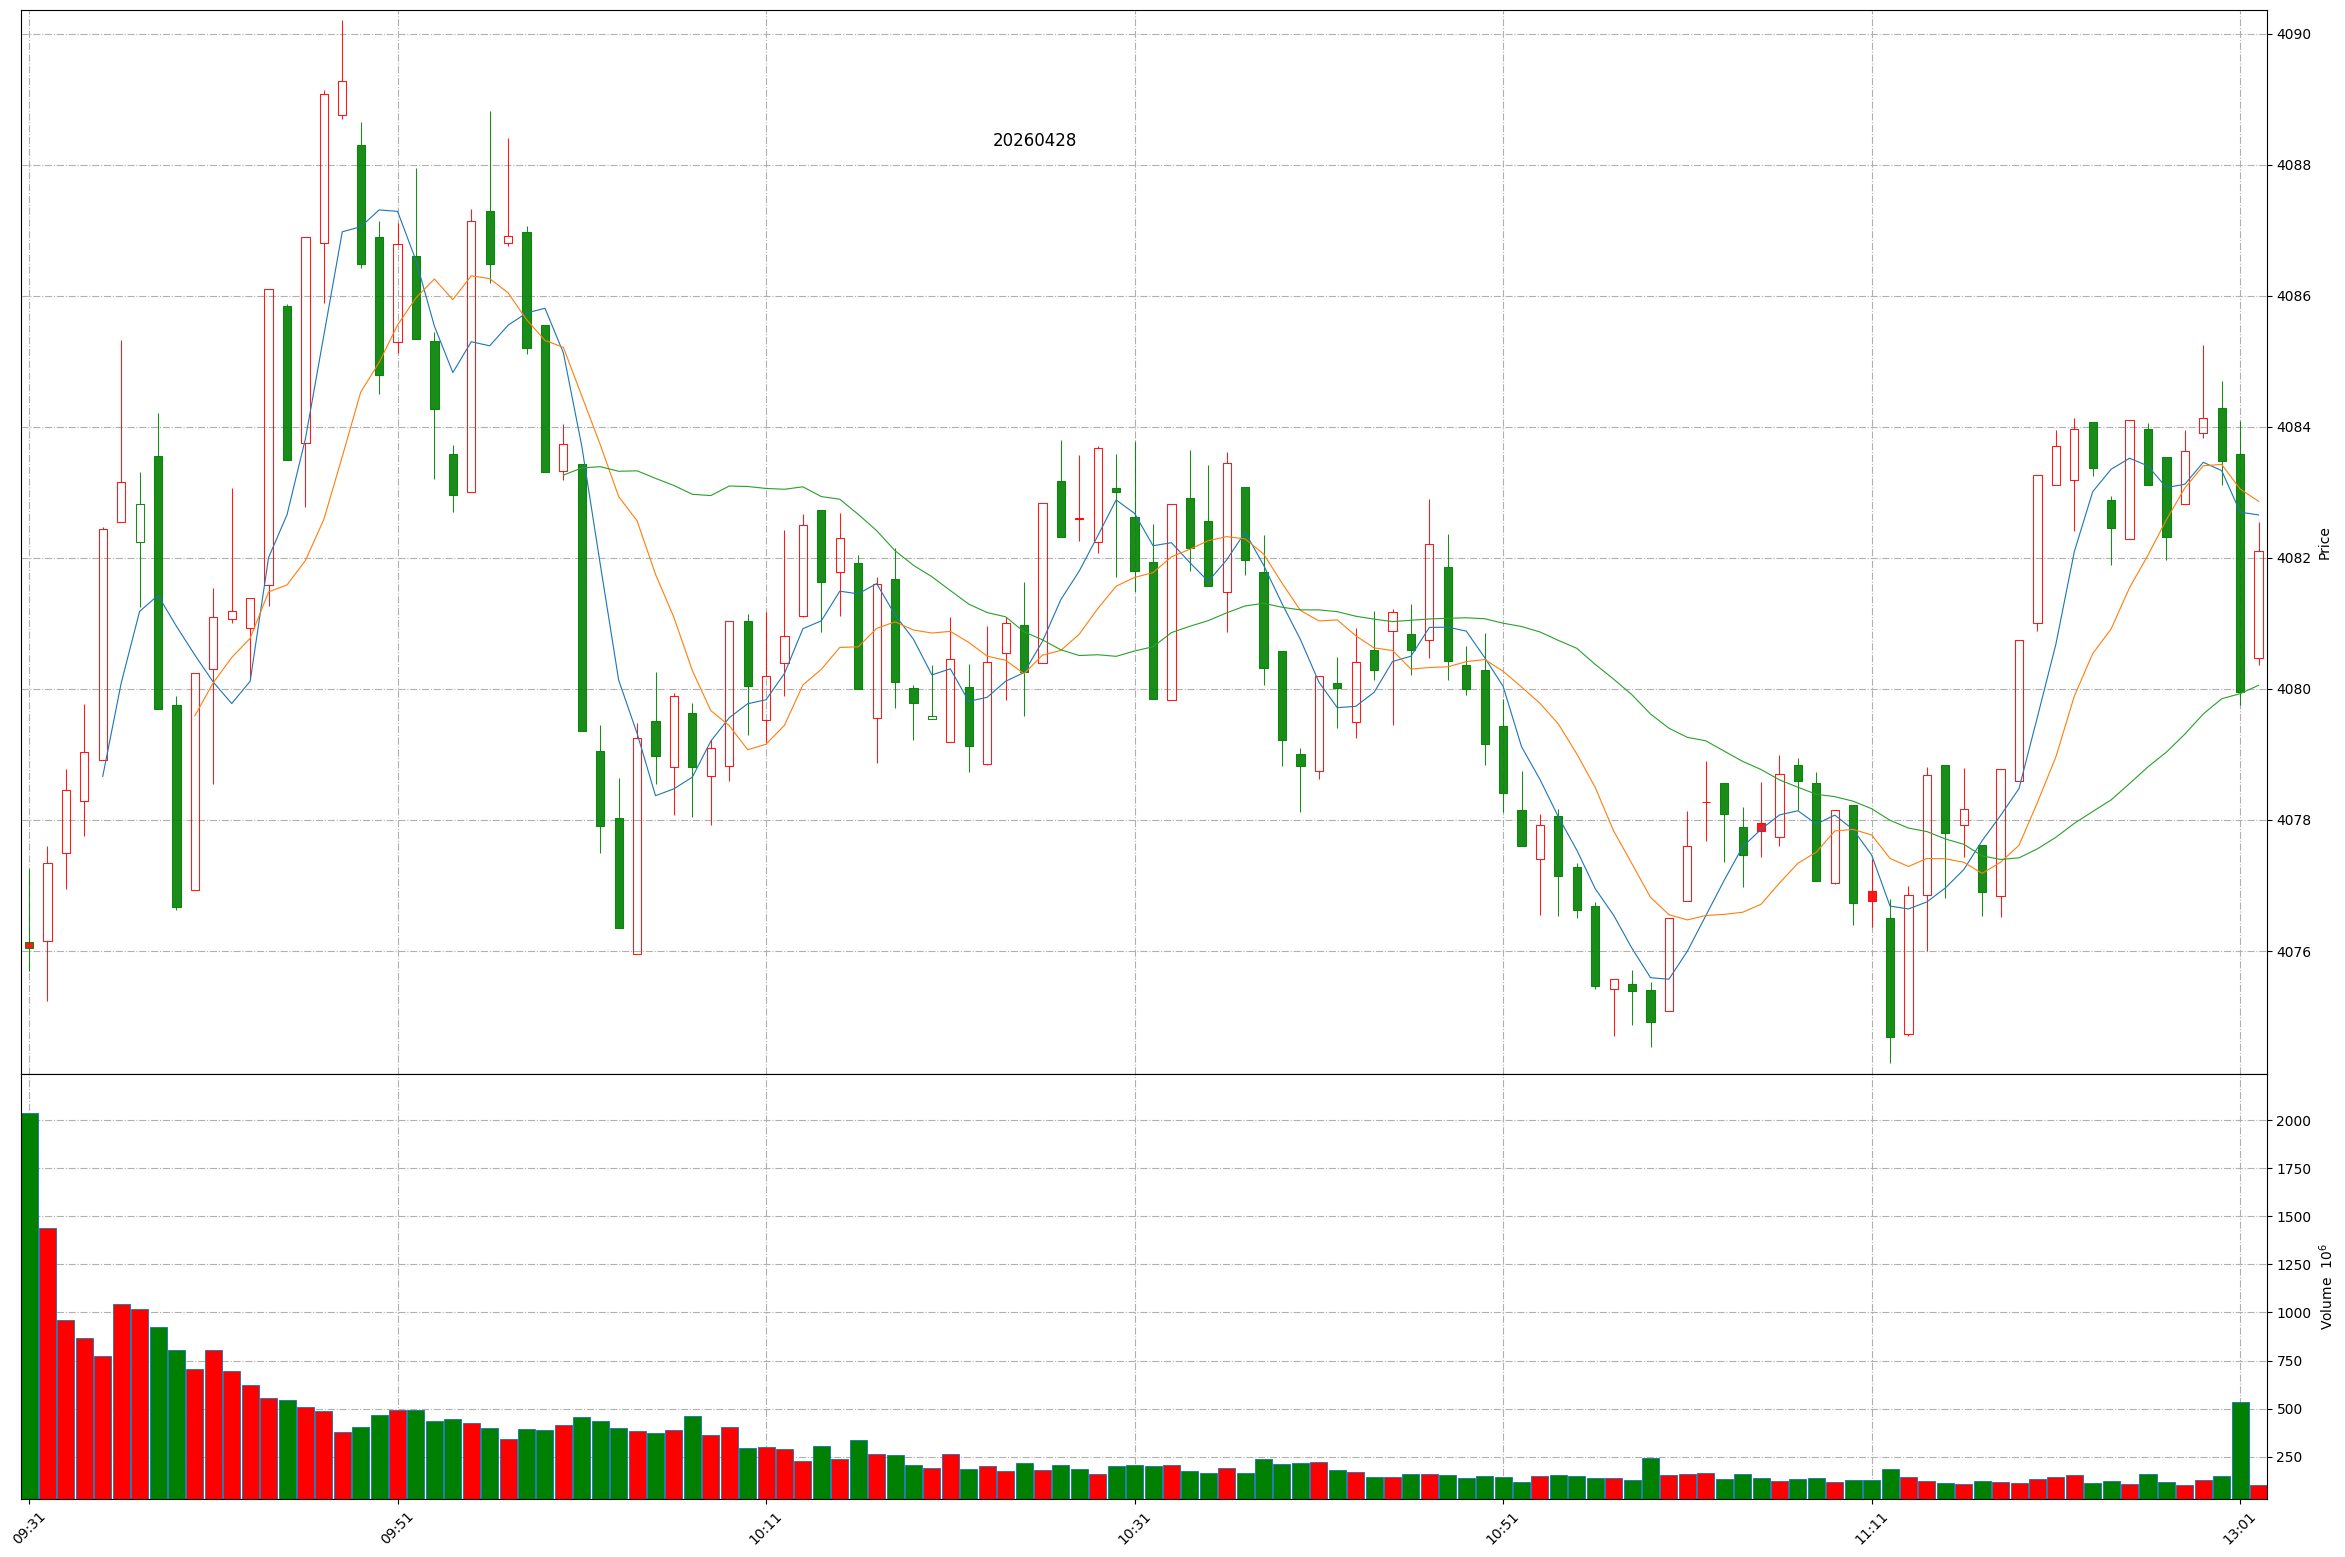
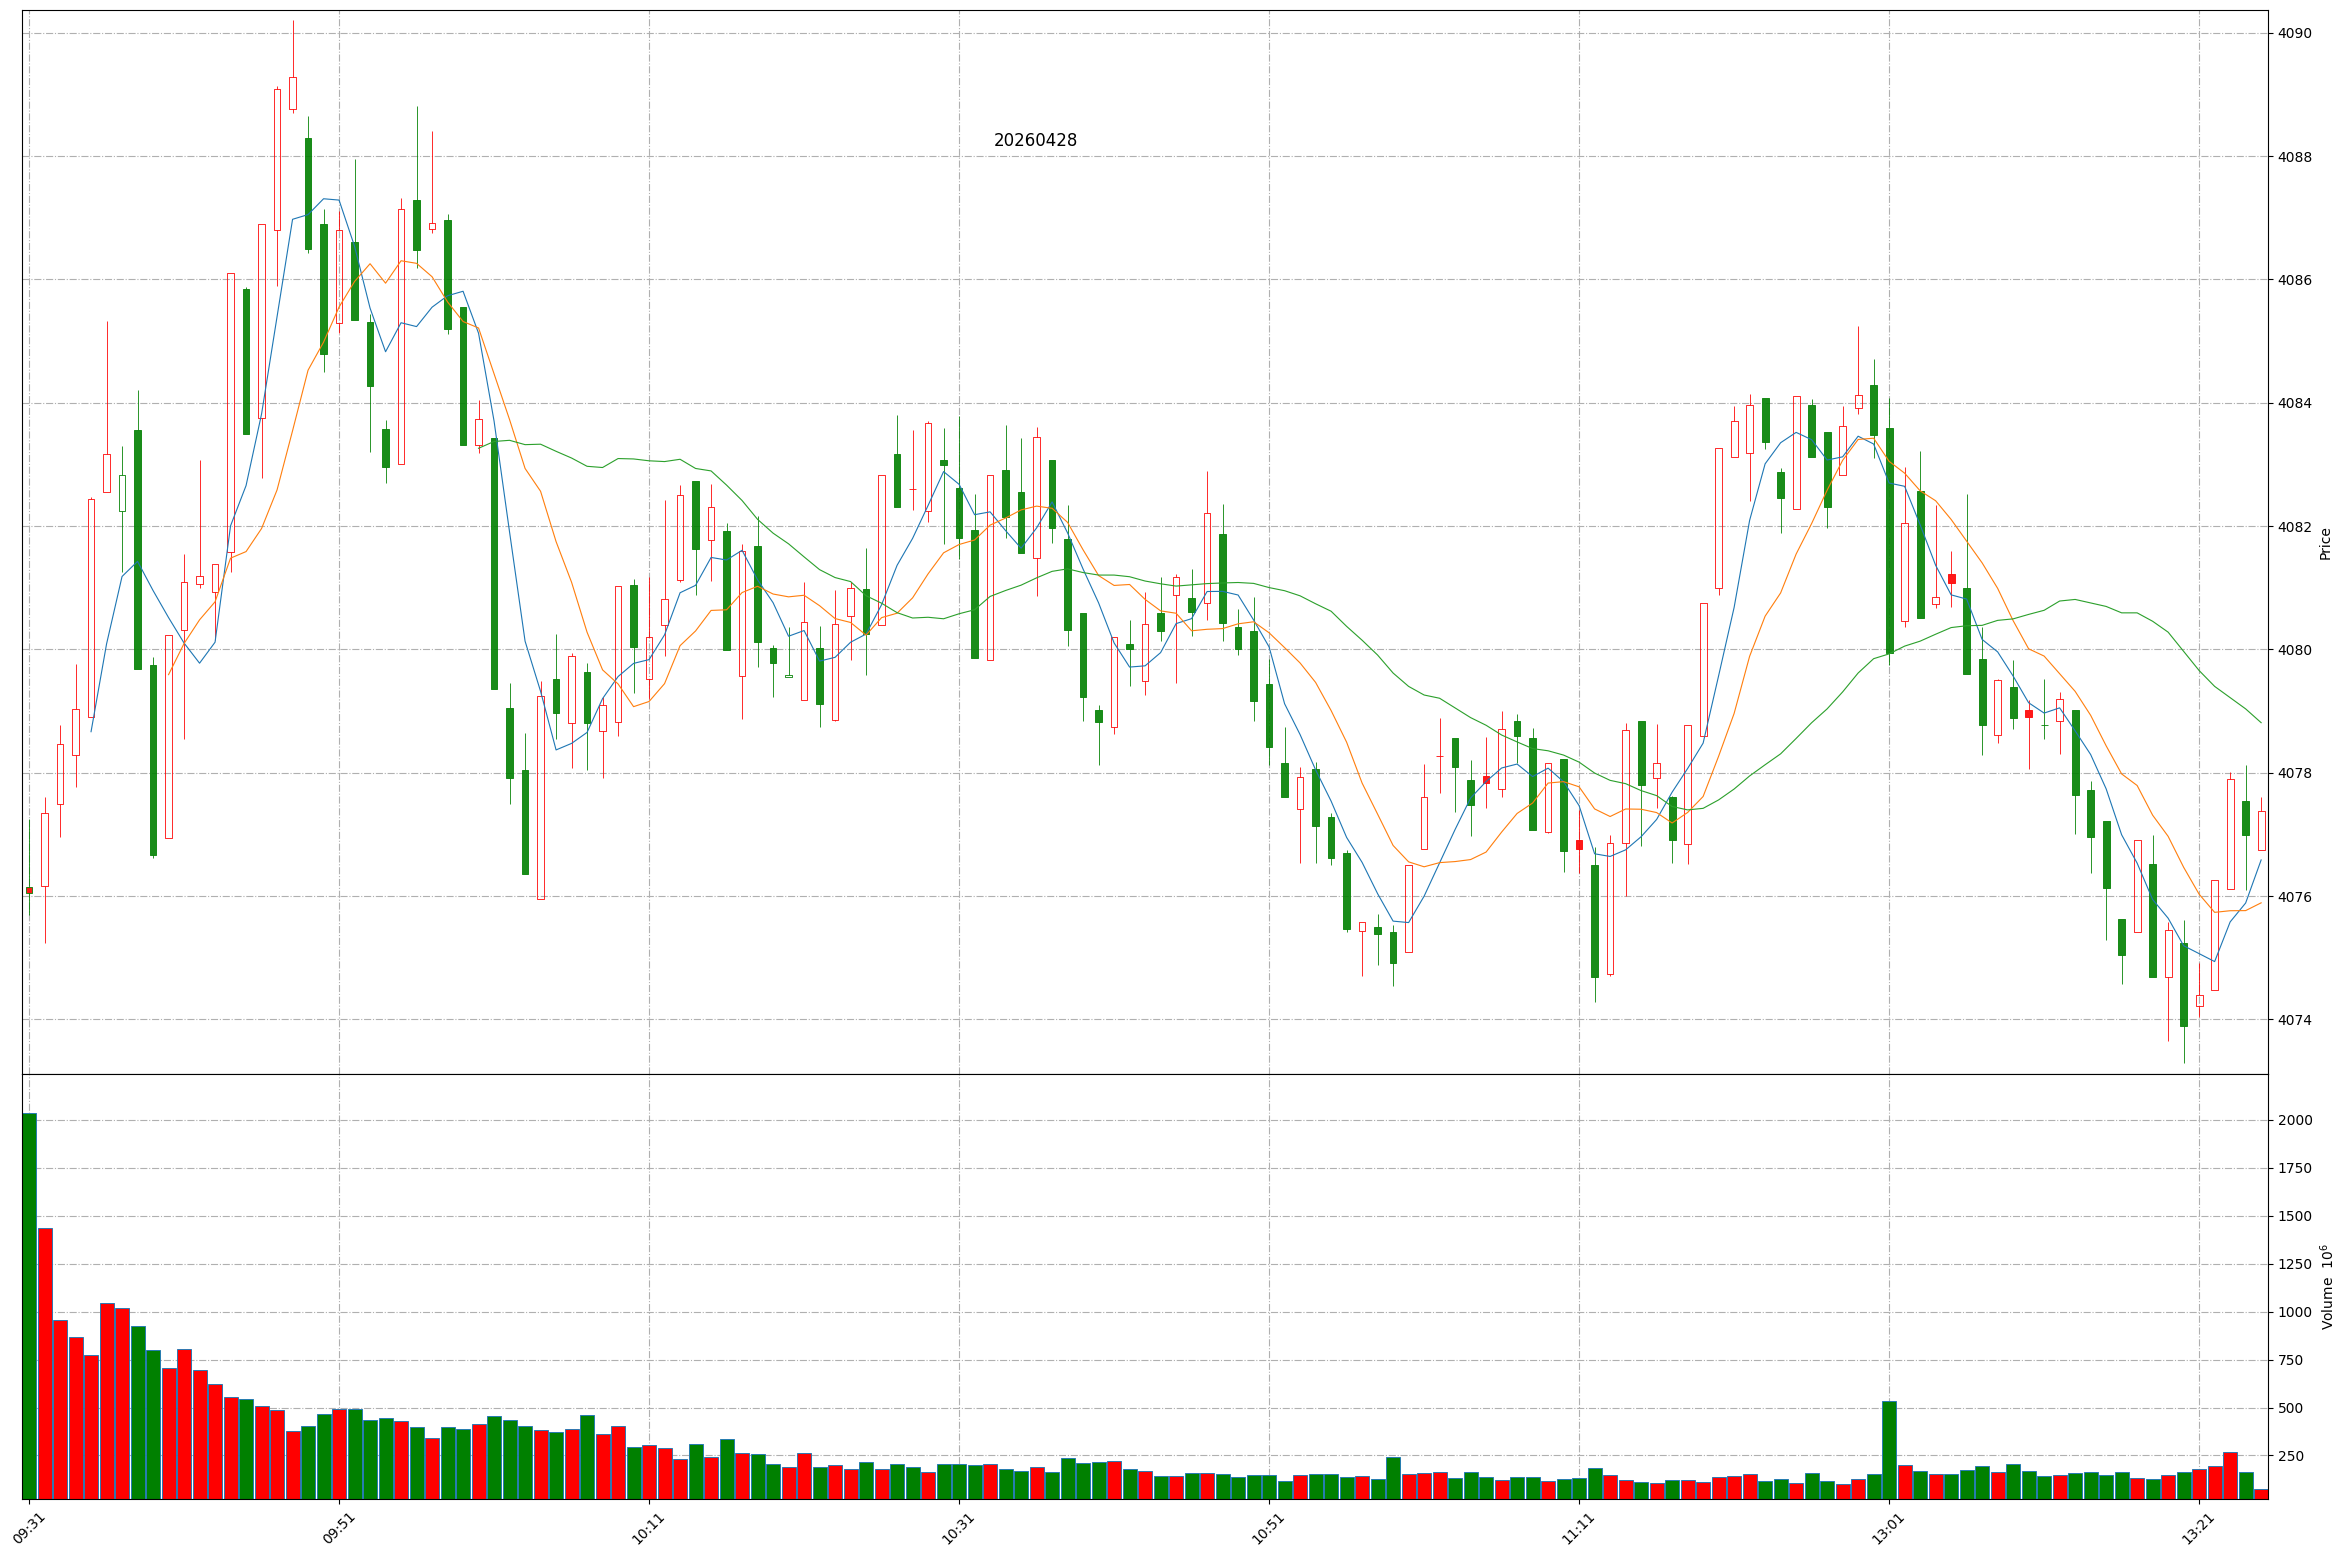
Github action update at 2026-04-28 13:24:49.

diff --git a/README.md b/README.md
@@ -1,11 +1,11 @@
 
 # Daily-A-share-market-quotes 每日 A 股指数（5min 更新）- 20260428
 
-### 上证指数 20260428 13:1
+### 上证指数 20260428 13:24
 ![](./fig/2026/4/20260428-sh000001.png)
 
-### 深证成指 20260428 13:1
+### 深证成指 20260428 13:24
 ![](./fig/2026/4/20260428-sz399001.png)
 
-### 北证50 20260428 13:1
+### 北证50 20260428 13:24
 ![](./fig/2026/4/20260428-bj899050.png)
